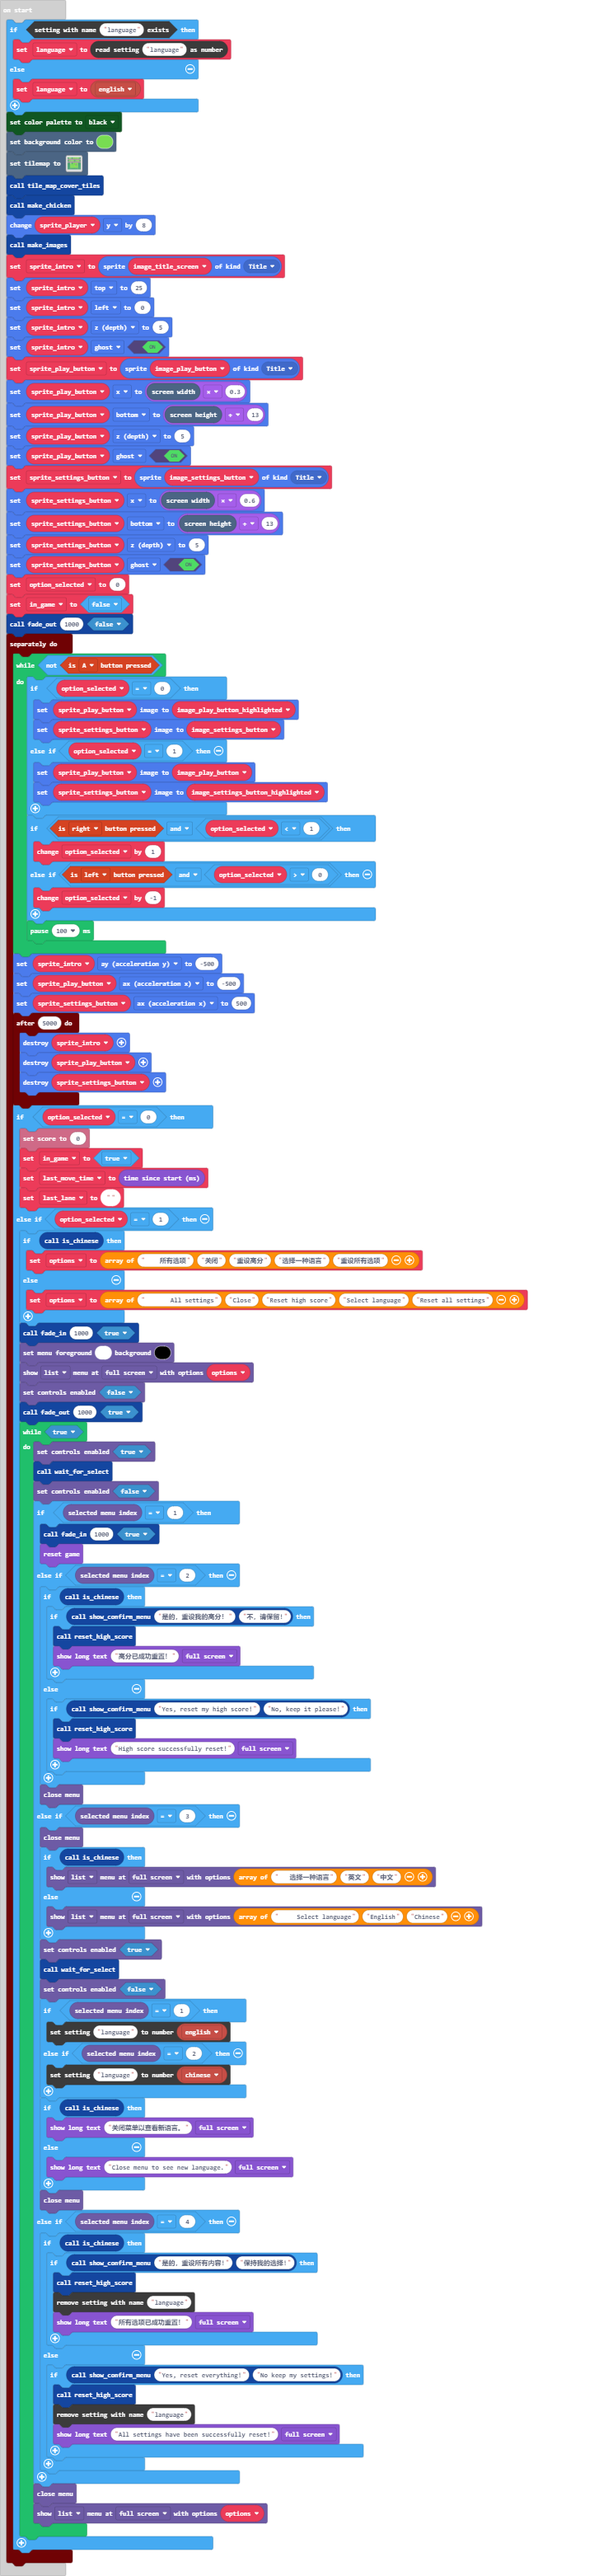
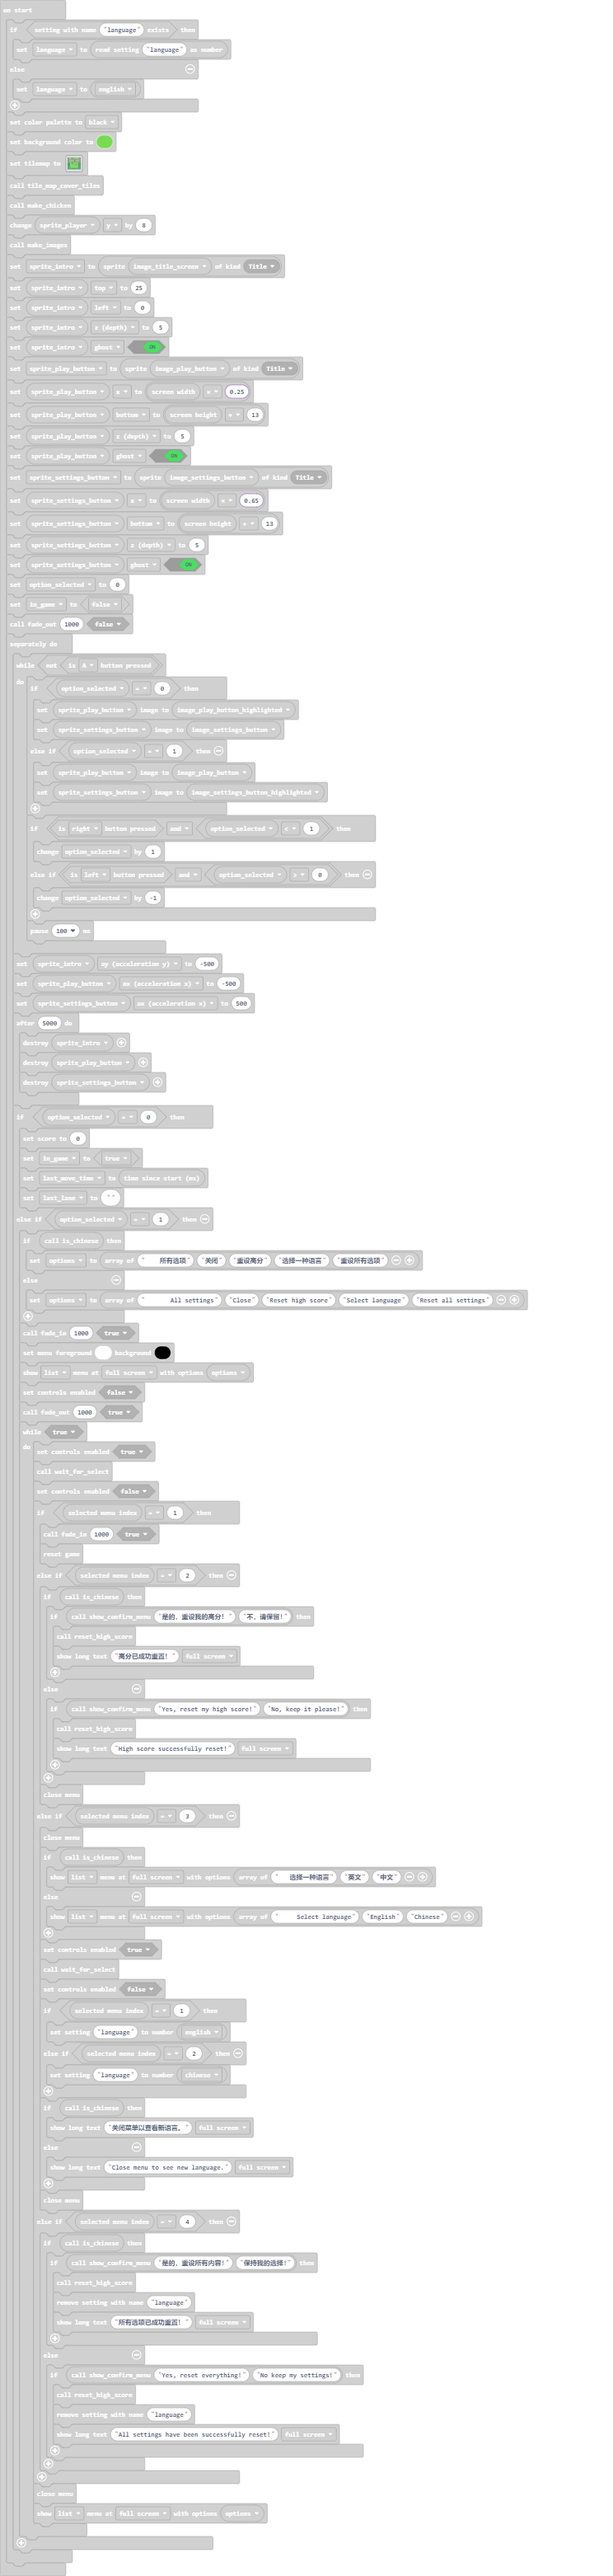
Update Chinese to be more "natural"

Changed region(s): [[0.0, 0.0, 0.8656, 1.0], [0.7419, 0.7139, 0.7728, 0.745]]

diff --git a/images.g.ts b/images.g.ts
@@ -269,54 +269,6 @@ bbbbbbbbbbbbbbbbbbdbbbbbbbbbbbbbbbbbbdbbbbbbbbbbbbbbbbbbdbbbbbbbbbbbbbbbbbbdbbbb
 ................................................................................................................................................................................................................................................................................................................................................................................................................................................................................................................................
 ................................................................................................................................................................................................................................................................................................................................................................................................................................................................................................................................
 `;
-            case "Gs}pvajx1eX54b|`6(du":
-            case "play_button":return img`
-.888888888888888888888888888888.
-88dddddddddddddddddddddddddddd88
-8dddddddddddd9ddddddddddddddddd8
-8ddddd99999d969dddddddddddddddd8
-8ddd96888869969dddddddddddddddd8
-8dd966999998969dddddddddddddd9d8
-8dd969dddd96969dd9966999dddd96d8
-8dd969dd9966969d968666969ddd96d8
-8dd9899666999699669d969669dd96d8
-8dd9869999dd969969dd9899669969d8
-8dd669dddddd96969dd96899989969d8
-8dd669dddddd96969996969d968669d8
-8dd669dddddd96996869969dd9689dd8
-8dd99dddddddd99d99ddd99ddd969dd8
-8dddddddddddddddddddddddd969ddd8
-8dddddddddddddddddddddddd969ddd8
-8dddddddddddddddddddddddd969ddd8
-8ddddddddddddddddddddddd969dddd8
-8ddddddddddddddddddddddd969dddd8
-88dddddddddddddddddddddddddddd88
-.888888888888888888888888888888.
-`;
-            case "Y${6Qq`u/`@Do%H?g?uP":
-            case "play_button_highlighted":return img`
-.888888888888888888888888888888.
-88555555555555555555555555555588
-85555555555559555555555555555558
-85555599999596955555555555555558
-85559688886996955555555555555558
-85596699999896955555555555555958
-85596955559696955996699955559658
-85596955996696959686669695559658
-85598996669996996695969669559658
-85598699995596996955989966996958
-85566955555596969559689998996958
-85566955555596969996969596866958
-85566955555596996869969559689558
-85599555555559959955599555969558
-85555555555555555555555559695558
-85555555555555555555555559695558
-85555555555555555555555559695558
-85555555555555555555555596955558
-85555555555555555555555596955558
-88555555555555555555555555555588
-.888888888888888888888888888888.
-`;
             case "|k|Aa[~Anleo+78tkQZy":
             case "settings_button":return img`
 .88888888888888888888888888888888888888888888888888888888888
@@ -774,54 +726,6 @@ c d d 1 1 d d c
 885555555555555555555555555555555555555555555555555555555588
 .88888888888888888888888888888888888888888888888888888888888
 `;
-            case ")oOomC,_PM*~0T#{UYvX":
-            case "play_button_chinese":return img`
-.888888888888888888888888888888.
-88dddddddddddddddddddddddddddd88
-8dddddddddddddddddddddddddddddd8
-8dddddddddddddddddddddddddddddd8
-8dddddddd688889688888869ddddddd8
-8ddddddd9996699999999999ddddddd8
-8ddddddddd9669dd999999ddddddddd8
-8ddddddddd966dddddddddddddddddd8
-8dddddddd996699888888889ddddddd8
-8dddddddd688889966966999ddddddd8
-8dddddddd996699969966999ddddddd8
-8ddddddddd966dd9699669ddddddddd8
-8ddddddddd966dd9699669ddddddddd8
-8ddddddddd96686969d66996ddddddd8
-8ddddddd9968699899d66996ddddddd8
-8ddddddd966999869dd66966ddddddd8
-8dddddddd9dd98999dd98889ddddddd8
-8ddddddddddd9999ddd99999ddddddd8
-8dddddddddddddddddddddddddddddd8
-88dddddddddddddddddddddddddddd88
-.888888888888888888888888888888.
-`;
-            case ";U%+d#,%=AEvx~FL@2]*":
-            case "play_button_highlighted_chinese":return img`
-.888888888888888888888888888888.
-88555555555555555555555555555588
-85555555555555555555555555555558
-85555555555555555555555555555558
-85555555568888968888886955555558
-85555555999669999999999955555558
-85555555559669559999995555555558
-85555555559665555555555555555558
-85555555599669988888888955555558
-85555555568888996696699955555558
-85555555599669996996699955555558
-85555555559665596996695555555558
-85555555559665596996695555555558
-85555555559668696956699655555558
-85555555996869989956699655555558
-85555555966999869556696655555558
-85555555595598999559888955555558
-85555555555599995559999955555558
-85555555555555555555555555555558
-88555555555555555555555555555588
-.888888888888888888888888888888.
-`;
             case ";f|!O6teiGM#;-#o!iLn":
             case "score_text_chinese":return img`
 ......999.........999.9.999.........
@@ -842,39 +746,151 @@ c d d 1 1 d d c
 `;
             case "GcsE{r6+D*w,":
             case "high_score_text_chinese":return img`
-.......689........999...999..........
-.688888888888886..989...969..........
-9999999999999999996699996699999......
-.999888888888999988888698888889......
-...96999999969..969996666999969......
-...98888888889..969.96689...969......
-...99999999999..969.966999..969......
-.96888888888888998888869699.96999....
-.9699999999999699699966.986996999....
-.9699688888899699699966..989969......
-.969969999969969969.966..99996999....
-.969968888889969969.966.....96999....
-.9699699999999699888886.....669......
-.969999999988869969996699888899......
-.999......999999999.9999999999.......
+...99999999999........689..........999999.......
+...68888888886..688888888888886....9699669......
+...66999999966.99999999999999999..9669.989......
+...68888888886..999888888888999..9669...689.....
+...66999999966....96999999969...9689....9689....
+.688888888888886..98888888889..9669......99869..
+99969996999999999.99999999999.96699999999999669.
+999888886888886996888888888888999688888888899999
+..96999696699669969999999999969..99969999989..99
+..98888899699699969968888889969....969...989....
+..9699969966669.969969999969969...9669...669..99
+..969888869669..969968888889969...989....669..99
+.98889969986689.969969999999969..68999..966.....
+.999999668999986969999999988869986999688889.....
+.999..99999..999999......9999999999..99999......
 `;
             case "HMQrB1YV;+`Le*eU`LIY":
             case "new_high_score_text_chinese":return img`
-..............................................99
-...969........9.......689..........999999.....96
-..99969999999689688888888888886....9699669....96
-.9888888668886999999999999999999..9669.989....96
-.96699969669....999888888888999..9669...689...66
-..969989966.......96999999969...9689....9689..66
-9688888886888886..98888888889..9669......9986966
-99999699966996999.99999999999.966999999999996666
-..9996999669969996888888888888999688888888899966
-.68888886669969.969999999999969..99969999989.969
-.99996999699969.969968888889969....969...989.999
-.9669669969.969.969969999969969...9669...669....
-.6699696669.969.969968888889969...989....669..99
-99999699699.969.969969999999969..68999..966...96
-.998869969..969.969999999988869986999688889...99
+...99999999999........689...............
+...68888888886..688888888888886.........
+...66999999966.99999999999999999........
+...68888888886..999888888888999.........
+...66999999966....96999999969...........
+.688888888888886..98888888889...........
+99969996999999999.99999999999...........
+9998888868888869968888888888889.........
+..96999696699669969999999999969.........
+..98888899699699969968888889969.........
+..9699969966669.969969999969969.........
+..969888869669..969968888889969.........
+.98889969986689.969969999999969.........
+.999999668999986969999999988869.........
+.999..99999..999999......99999..........
+.......999.......9........999...........
+.....999999........999.9.999............
+.....9699669....969969969969.....999....
+....9669.989....96996969969......986....
+...9669...689...9969696998888869.986....
+..9689....9689..6888888696996699.986....
+.9669......9986999668999869.669..989....
+966999999999996668998888669969...969....
+.99688888888899999989999969969...969....
+...99969999989..68888889966669...969....
+.....969...989.996699969998899...999....
+....9669...669..98899669.9689.....99....
+....989....669..99968699.6866....986....
+...68999..966....98896896899669..986....
+.986999688889...6899999869999669..99....
+.9999..99999...99999.99999..9999........
+`;
+            case "Gs}pvajx1eX54b|`6(du":
+            case "play_button":return img`
+.88888888888888888888888888888888.
+88dddddddddddddddddddddddddddddd88
+8ddddddddddddd9dddddddddddddddddd8
+8dddddd99999d969ddddddddddddddddd8
+8dddd96888869969ddddddddddddddddd8
+8ddd966999998969dddddddddddddd9dd8
+8ddd969dddd96969dd9966999dddd96dd8
+8ddd969dd9966969d968666969ddd96dd8
+8ddd9899666999699669d969669dd96dd8
+8ddd9869999dd969969dd9899669969dd8
+8ddd669dddddd96969dd96899989969dd8
+8ddd669dddddd96969996969d968669dd8
+8ddd669dddddd96996869969dd9689ddd8
+8ddd99dddddddd99d99ddd99ddd969ddd8
+8ddddddddddddddddddddddddd969dddd8
+8ddddddddddddddddddddddddd969dddd8
+8ddddddddddddddddddddddddd969dddd8
+8dddddddddddddddddddddddd969ddddd8
+8dddddddddddddddddddddddd969ddddd8
+88dddddddddddddddddddddddddddddd88
+.88888888888888888888888888888888.
+`;
+            case ")oOomC,_PM*~0T#{UYvX":
+            case "play_button_chinese":return img`
+.88888888888888888888888888888888.
+88dddddddddddddddddddddddddddddd88
+8dddddddddddddddddddddddddddddddd8
+8dddddddddddddddddd99dddd999ddddd8
+8d988888888888889d969dddd968ddddd8
+8d999969999969999d969ddd966999ddd8
+8dd999699999699999969999969d669dd8
+8dddd969ddd969dd9888886969d9966dd8
+8dddd969ddd969ddd966966968888889d8
+8d688888888888886969966886999966d8
+8d999969999969999969969999999999d8
+8d999969999969999969969688888869d8
+8dddd969ddd969ddd966669669999969d8
+8dddd969ddd969dddd96899669ddd969d8
+8ddd9899ddd969dddd96889669ddd969d8
+8dd9899dddd969ddd986996688888869d8
+8d98999dddd969dd9699999669999969d8
+8d9999ddddd999ddd99dddd999999999d8
+8dddddddddddddddddddddddddddddddd8
+88dddddddddddddddddddddddddddddd88
+.88888888888888888888888888888888.
+`;
+            case "Y${6Qq`u/`@Do%H?g?uP":
+            case "play_button_highlighted":return img`
+.88888888888888888888888888888888.
+8855555555555555555555555555555588
+8555555555555595555555555555555558
+8555555999995969555555555555555558
+8555596888869969555555555555555558
+8555966999998969555555555555559558
+8555969555596969559966999555596558
+8555969559966969596866696955596558
+8555989966699969966959696695596558
+8555986999955969969559899669969558
+8555669555555969695596899989969558
+8555669555555969699969695968669558
+8555669555555969968699695596895558
+8555995555555599599555995559695558
+8555555555555555555555555596955558
+8555555555555555555555555596955558
+8555555555555555555555555596955558
+8555555555555555555555555969555558
+8555555555555555555555555969555558
+8855555555555555555555555555555588
+.88888888888888888888888888888888.
+`;
+            case ";U%+d#,%=AEvx~FL@2]*":
+            case "play_button_highlighted_chinese":return img`
+.88888888888888888888888888888888.
+8855555555555555555555555555555588
+8555555555555555555555555555555558
+8555555555555555555995555999555558
+8598888888888888959695555968555558
+8599996999996999959695559669995558
+8559996999996999999699999695669558
+8555596955596955988888696959966558
+8555596955596955596696696888888958
+8568888888888888696996688699996658
+8599996999996999996996999999999958
+8599996999996999996996968888886958
+8555596955596955596666966999996958
+8555596955596955559689966955596958
+8555989955596955559688966955596958
+8559899555596955598699668888886958
+8598999555596955969999966999996958
+8599995555599955599555599999999958
+8555555555555555555555555555555558
+8855555555555555555555555555555588
+.88888888888888888888888888888888.
 `;
         }
         return null;

diff --git a/main.ts b/main.ts
@@ -532,12 +532,12 @@ sprite_intro.left = 0
 sprite_intro.z = 5
 sprite_intro.setFlag(SpriteFlag.Ghost, true)
 let sprite_play_button = sprites.create(image_play_button, SpriteKind.Title)
-sprite_play_button.x = scene.screenWidth() * 0.3
+sprite_play_button.x = scene.screenWidth() * 0.25
 sprite_play_button.bottom = scene.screenHeight() + 13
 sprite_play_button.z = 5
 sprite_play_button.setFlag(SpriteFlag.Ghost, true)
 let sprite_settings_button = sprites.create(image_settings_button, SpriteKind.Title)
-sprite_settings_button.x = scene.screenWidth() * 0.6
+sprite_settings_button.x = scene.screenWidth() * 0.65
 sprite_settings_button.bottom = scene.screenHeight() + 13
 sprite_settings_button.z = 5
 sprite_settings_button.setFlag(SpriteFlag.Ghost, true)
